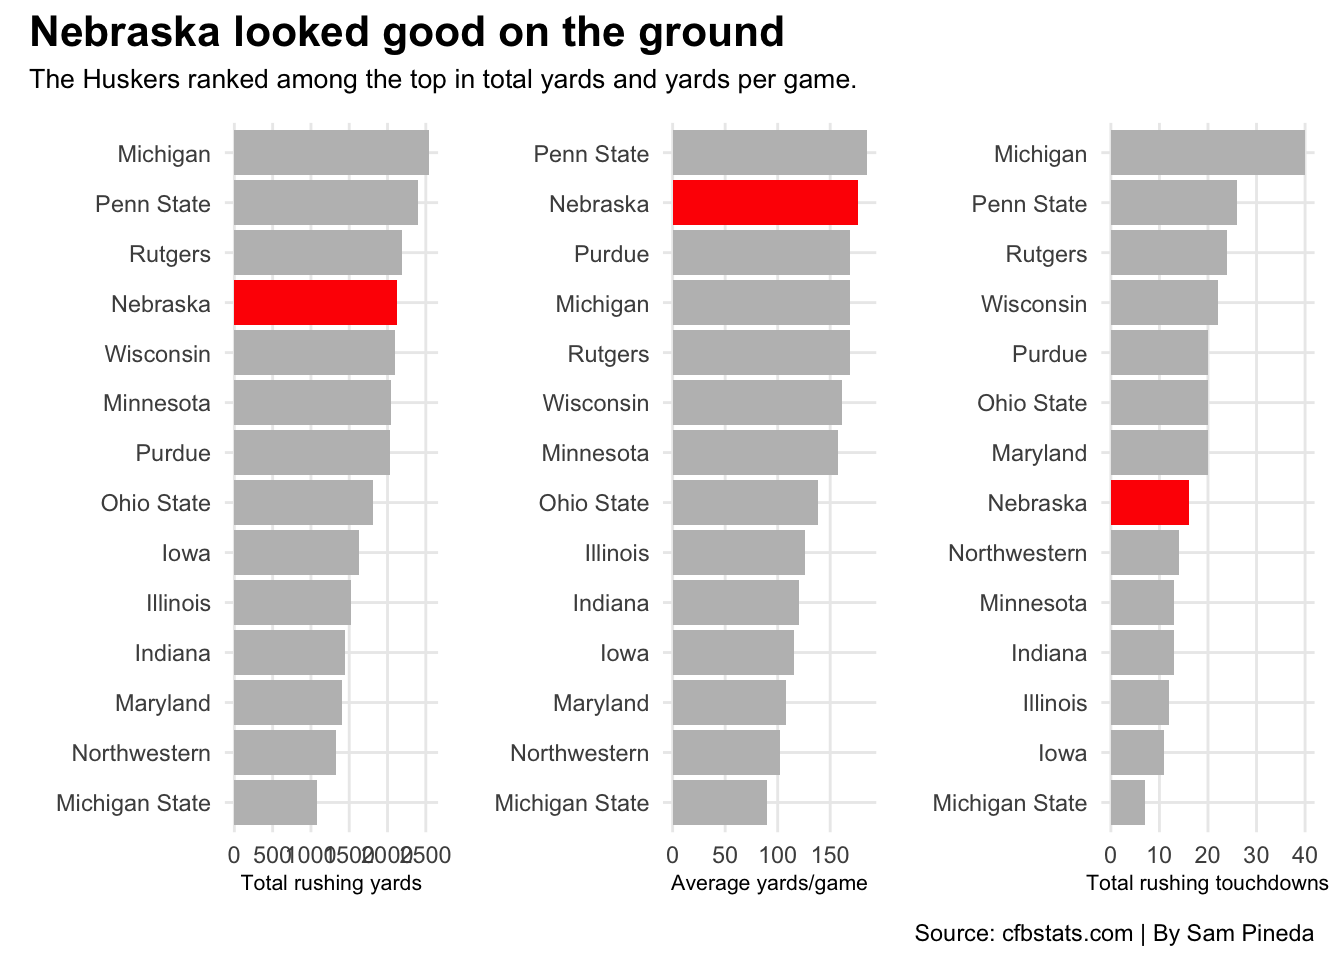
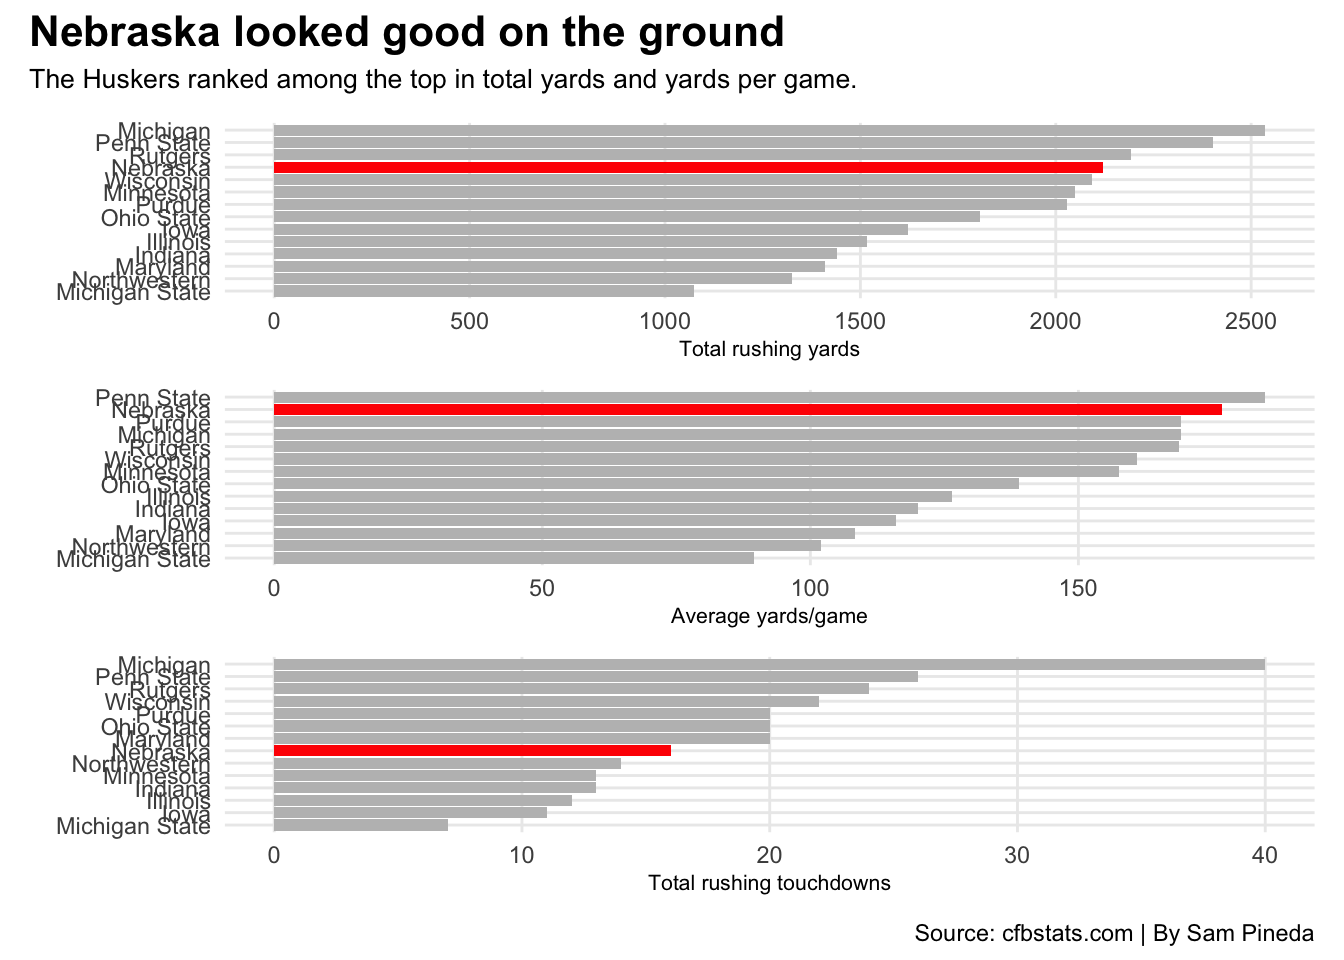
Changed stacking of bar charts.

diff --git a/posts/nebraska-football-offense-2023/index.html b/posts/nebraska-football-offense-2023/index.html
@@ -358,7 +358,7 @@ pre > code.sourceCode > span > a:first-child::before { text-decoration: underlin
 <span id="cb3-50"><a href="#cb3-50" aria-hidden="true" tabindex="-1"></a>    <span class="at">plot.title.position =</span> <span class="st">"plot"</span></span>
 <span id="cb3-51"><a href="#cb3-51" aria-hidden="true" tabindex="-1"></a>    )</span>
 <span id="cb3-52"><a href="#cb3-52" aria-hidden="true" tabindex="-1"></a></span>
-<span id="cb3-53"><a href="#cb3-53" aria-hidden="true" tabindex="-1"></a>bar1 <span class="sc">+</span> bar2 <span class="sc">+</span> bar3 <span class="sc">+</span></span>
+<span id="cb3-53"><a href="#cb3-53" aria-hidden="true" tabindex="-1"></a>bar1 <span class="sc">/</span> bar2 <span class="sc">/</span> bar3 <span class="sc">+</span></span>
 <span id="cb3-54"><a href="#cb3-54" aria-hidden="true" tabindex="-1"></a>  <span class="fu">plot_annotation</span>(</span>
 <span id="cb3-55"><a href="#cb3-55" aria-hidden="true" tabindex="-1"></a>    <span class="at">title =</span> <span class="st">"Nebraska looked good on the ground"</span>,</span>
 <span id="cb3-56"><a href="#cb3-56" aria-hidden="true" tabindex="-1"></a>    <span class="at">subtitle =</span> <span class="st">"The Huskers ranked among the top in total yards and yards per game."</span>,</span>

diff --git a/index.html b/index.html
@@ -205,7 +205,7 @@ window.Quarto = {
 
 <div class="quarto-listing quarto-listing-container-default" id="listing-listing">
 <div class="list quarto-listing-default">
-<div class="quarto-post image-right" data-index="0" data-categories="bmNhYSxmb290YmFsbCxuZWJyYXNrYQ==" data-listing-date-sort="1730786400000" data-listing-file-modified-sort="1731807772227" data-listing-date-modified-sort="NaN" data-listing-reading-time-sort="6" data-listing-word-count-sort="1063">
+<div class="quarto-post image-right" data-index="0" data-categories="bmNhYSxmb290YmFsbCxuZWJyYXNrYQ==" data-listing-date-sort="1730786400000" data-listing-file-modified-sort="1731808081848" data-listing-date-modified-sort="NaN" data-listing-reading-time-sort="6" data-listing-word-count-sort="1063">
 <div class="thumbnail">
 <p><a href="./posts/nebraska-football-offense-2023/index.html" class="no-external"></a></p><a href="./posts/nebraska-football-offense-2023/index.html" class="no-external">
 <p class="card-img-top"><img src="posts/nebraska-football-offense-2023/index_files/figure-html/unnamed-chunk-1-1.png"  class="thumbnail-image card-img"/></p>
